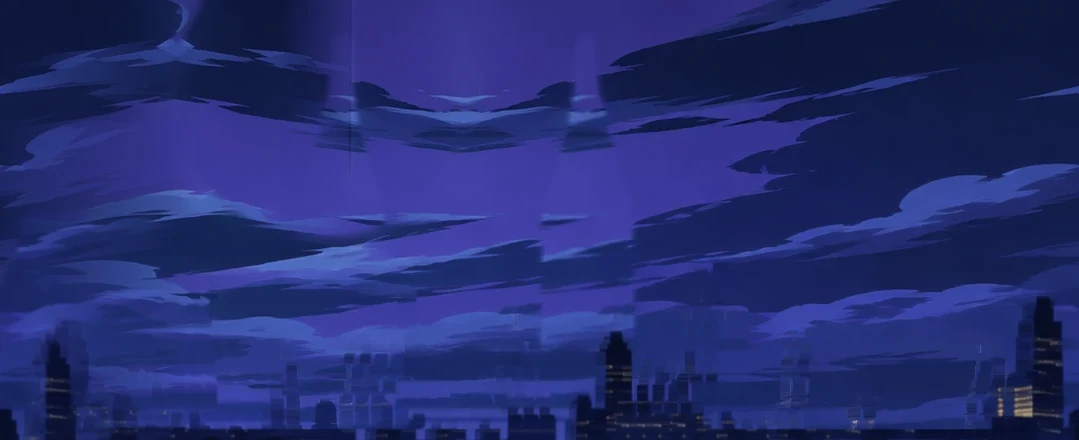
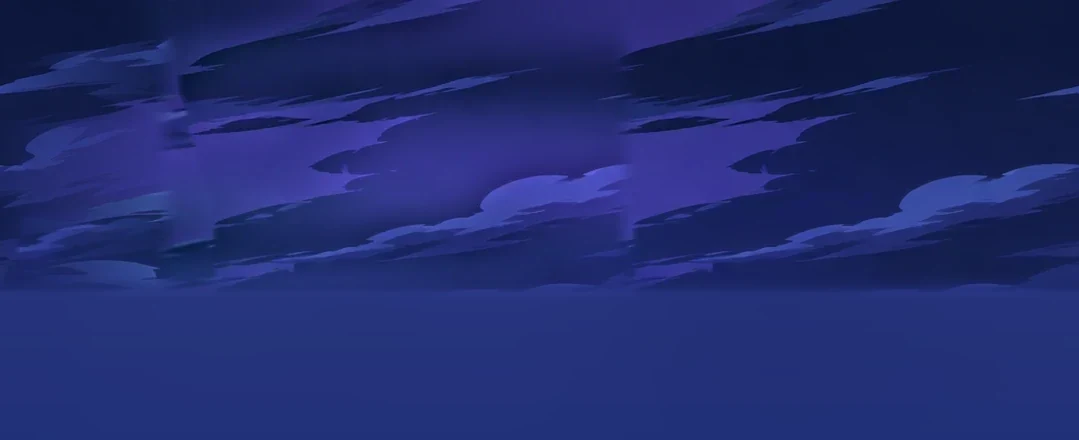
Clean the drifting sky; retrace case, book and phone highlights
- Remove buildings and mirror seams baked into the moving cloud layer
- Museum cases, the three books and the phone (without its cord)
  traced to their edges, with a thinner, softer highlight line

diff --git a/index.html b/index.html
@@ -9,7 +9,7 @@
   <link rel="preconnect" href="https://fonts.gstatic.com" crossorigin>
   <link href="https://fonts.googleapis.com/css2?family=Caveat:wght@500&family=Josefin+Sans:wght@300;400;600&family=Limelight&family=Special+Elite&display=swap" rel="stylesheet">
   <link rel="preload" as="image" href="assets/city.webp?v=14">
-  <link rel="stylesheet" href="styles.css?v=17">
+  <link rel="stylesheet" href="styles.css?v=20">
 </head>
 <body>
 
@@ -188,9 +188,9 @@
   <div class="scene">
     <img class="scene-img" src="assets/library.webp?v=14" alt="" draggable="false">
     <svg class="scene-svg" viewBox="0 0 1671 941" preserveAspectRatio="none">
-      <polygon class="book-hot" data-i="0" points="1185,303 1197,293 1217,290 1247,294 1280,301 1260,507 1256,560 1170,560 1150,563 1150,552" tabindex="0" role="button" aria-label="Skill One"/>
-      <polygon class="book-hot" data-i="1" points="1287,232 1295,222 1312,219 1334,221 1423,236 1406,289 1347,301 1340,309 1322,508 1265,513" tabindex="0" role="button" aria-label="Skill Two"/>
-      <polygon class="book-hot" data-i="2" points="1433,170 1445,155 1470,146 1500,145 1566,152 1566,195 1558,525 1505,527 1400,522 1404,500" tabindex="0" role="button" aria-label="Skill Three"/>
+      <polygon class="book-hot" data-i="0" points="1150,557 1158,520 1188,301 1196,293 1212,288 1246,292 1280,300 1270,400 1259,520 1252,572 1205,560 1172,562" tabindex="0" role="button" aria-label="Skill One"/>
+      <polygon class="book-hot" data-i="1" points="1264,512 1289,237 1296,227 1310,222 1332,224 1341,228 1338,510" tabindex="0" role="button" aria-label="Skill Two"/>
+      <polygon class="book-hot" data-i="2" points="1394,519 1436,163 1442,155 1458,149 1524,144 1574,151 1578,170 1576,510 1540,513 1483,516 1440,517" tabindex="0" role="button" aria-label="Skill Three"/>
     </svg>
     <div class="book-tip" aria-hidden="true"></div>
     <p class="lib-hint">Take a book from the shelf</p>
@@ -271,10 +271,10 @@
         <rect x="1495" y="704" width="20" height="10" fill="url(#gGold)"/>
       </g>
       <!-- the cases themselves are clickable -->
-      <polygon class="case-hot" data-i="0" points="0,499 200,499 325,526 325,742 200,767 0,760" tabindex="0" role="button" aria-label="Exhibit I"/>
-      <polygon class="case-hot" data-i="1" points="361,566 469,566 510,576 510,689 470,699 362,692" tabindex="0" role="button" aria-label="Exhibit II"/>
-      <polygon class="case-hot" data-i="2" points="1159,571 1200,563 1305,565 1302,693 1201,697 1160,689" tabindex="0" role="button" aria-label="Exhibit III"/>
-      <polygon class="case-hot" data-i="3" points="1338,517 1498,479 1671,481 1671,752 1498,780 1332,752 1336,530" tabindex="0" role="button" aria-label="Exhibit IV"/>
+      <polygon class="case-hot" data-i="0" points="1,502 198,501 324,528 324,743 200,767 1,759" tabindex="0" role="button" aria-label="Exhibit I"/>
+      <polygon class="case-hot" data-i="1" points="362,569 467,568 507,579 507,688 468,697 362,690" tabindex="0" role="button" aria-label="Exhibit II"/>
+      <polygon class="case-hot" data-i="2" points="1161,572 1200,565 1303,566 1301,691 1201,695 1162,688" tabindex="0" role="button" aria-label="Exhibit III"/>
+      <polygon class="case-hot" data-i="3" points="1340,516 1500,482 1671,482 1671,749 1504,776 1340,745" tabindex="0" role="button" aria-label="Exhibit IV"/>
     </svg>
     <div class="case-tip" aria-hidden="true"></div>
     <div class="wall-text" aria-live="polite">
@@ -308,7 +308,7 @@
     <img class="scene-img" src="assets/booth.webp?v=14" alt="" draggable="false">
     <i class="flicker flicker-booth" aria-hidden="true"></i>
     <svg class="scene-svg" viewBox="0 0 1672 941" preserveAspectRatio="none">
-      <polygon class="phone-hot" id="phoneHot" points="833,330 838,318 865,317 868,302 1012,302 1016,317 1043,318 1049,330 1049,690 1043,694 888,694 886,705 875,722 858,725 842,718 832,700 826,660 828,600 833,560" tabindex="0" role="button" aria-label="Pick up the phone to send Youssef a message"/>
+      <polygon class="phone-hot" id="phoneHot" points="866,316 870,300 1004,300 1008,316 1036,320 1044,332 1044,556 1047,562 1047,690 1040,696 905,696 899,690 899,560 836,558 829,550 829,332 836,322" tabindex="0" role="button" aria-label="Pick up the phone to send Youssef a message"/>
     </svg>
     <div class="lcd" aria-hidden="true"><span id="lcd">INSERT 10¢</span></div>
     <div class="phone-tag" aria-hidden="true"><b>Pick up</b><span>Leave a message</span></div>

diff --git a/styles.css b/styles.css
@@ -69,7 +69,7 @@ button { font: inherit; color: inherit; }
   position: absolute; top: 0; height: 100%; left: -84.363%; width: 268.725%;
   animation: skyDrift 140s linear infinite; will-change: transform;
 }
-.sky-strip { background: url(assets/sky-tile.webp?v=15) 0 0 / 31.394% 100% repeat-x; }
+.sky-strip { background: url(assets/sky-tile.webp?v=17) 0 0 / 31.394% 100% repeat-x; }
 .sky-moon { position: absolute; left: 0; top: 0; width: 55.747%; height: 100%; display: block; user-select: none; -webkit-user-drag: none; }
 .sky-front-wrap {
   position: absolute; inset: 0;
@@ -176,12 +176,12 @@ body.pannable .swipe-hint { display: block; }
 
 .file-hot, .book-hot, .case-hot, .phone-hot {
   cursor: pointer; outline: none;
-  fill: rgba(242,196,107,0); stroke: rgba(255,226,170,0); stroke-width: 3; stroke-linejoin: round;
+  fill: rgba(242,196,107,0); stroke: rgba(255,226,170,0); stroke-width: 2; stroke-linejoin: round;
   transition: fill .35s, stroke .35s, filter .35s;
   vector-effect: non-scaling-stroke;
 }
 .file-hot:hover, .file-hot:focus-visible, .book-hot:hover, .book-hot:focus-visible, .case-hot:hover, .case-hot:focus-visible, .phone-hot:hover, .phone-hot:focus-visible {
-  fill: rgba(242,196,107,.14); stroke: rgba(255,236,200,.95); filter: drop-shadow(0 0 8px rgba(242,196,107,.9));
+  fill: rgba(242,196,107,.12); stroke: rgba(255,236,200,.9); filter: drop-shadow(0 0 5px rgba(242,196,107,.75));
 }
 
 /* ==========================================================
